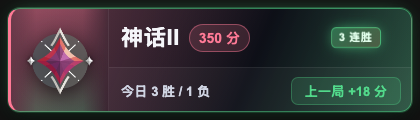
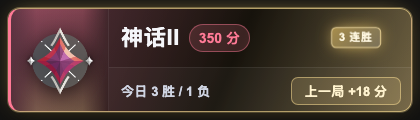
style: use gilded gold wins and red-black losses

diff --git a/src/cmd/valorant-overlay/static/overlay.html b/src/cmd/valorant-overlay/static/overlay.html
@@ -46,6 +46,20 @@
       box-shadow: 0 10px 24px rgba(0,0,0,.50), 0 0 22px -12px rgba(var(--tier-rgb), .85), inset 0 1px 0 rgba(255,255,255,.08);
       color: #f5f6fa;
     }
+    .rank-card[data-result="win"] {
+      border-color: rgba(255,226,150,.55);
+      border-left-color: var(--tier);
+      background:
+        linear-gradient(112deg, rgba(var(--tier-rgb), .32) 0%, rgba(22,18,11,.96) 55%, rgba(255,226,150,.38) 100%),
+        linear-gradient(135deg, #11131c, #1d1810);
+    }
+    .rank-card[data-result="loss"] {
+      border-color: rgba(190,30,45,.48);
+      border-left-color: var(--tier);
+      background:
+        linear-gradient(112deg, rgba(var(--tier-rgb), .20) 0%, rgba(6,5,8,.98) 48%, rgba(150,16,30,.42) 100%),
+        linear-gradient(135deg, #08070a, #150508);
+    }
     .rank-badge {
       grid-row: 1 / 3;
       position: relative;
@@ -137,38 +151,38 @@
       animation: streakPulse var(--breath-duration, 2.4s) ease-in-out infinite;
     }
     .streak-badge.win {
-      color: #e2ffec;
-      background: linear-gradient(135deg, rgba(82,217,139,.42), rgba(255,224,138,.20));
-      border: 1px solid rgba(82,217,139,.62);
-      box-shadow: 0 0 14px -3px rgba(82,217,139,.8);
+      color: #fff8e1;
+      background: linear-gradient(135deg, rgba(255,214,110,.55), rgba(255,248,220,.22));
+      border: 1px solid rgba(255,232,170,.85);
+      box-shadow: 0 0 16px -3px rgba(255,214,110,.9);
     }
     .streak-badge.loss {
-      color: #ffe4e7;
-      background: linear-gradient(135deg, rgba(255,95,109,.46), rgba(255,150,120,.18));
-      border: 1px solid rgba(255,95,109,.65);
-      box-shadow: 0 0 14px -3px rgba(255,95,109,.8);
+      color: #ffb3ba;
+      background: linear-gradient(135deg, #120507, rgba(120,10,20,.72));
+      border: 1px solid rgba(220,45,60,.78);
+      box-shadow: 0 0 16px -3px rgba(220,45,60,.75);
     }
     @keyframes streakPulse {
       0%, 100% { transform: scale(1); filter: brightness(1); }
       50% { transform: scale(1.06); filter: brightness(1.22); }
     }
     .rank-card[data-streak="win"] {
-      border-color: rgba(82,217,139,.55);
+      border-color: rgba(255,226,150,.65);
       border-left-color: var(--tier);
       animation: streakWin var(--breath-duration, 2.4s) ease-in-out infinite;
     }
     .rank-card[data-streak="loss"] {
-      border-color: rgba(255,95,109,.55);
+      border-color: rgba(200,35,50,.65);
       border-left-color: var(--tier);
       animation: streakLoss var(--breath-duration, 2.4s) ease-in-out infinite;
     }
     @keyframes streakWin {
-      0%, 100% { box-shadow: 0 10px 24px rgba(0,0,0,.50), 0 0 0 1px rgba(82,217,139,.30), 0 0 22px -10px rgba(82,217,139,.8); filter: brightness(1); }
-      50% { box-shadow: 0 10px 24px rgba(0,0,0,.50), 0 0 0 2px rgba(82,217,139,.55), 0 0 34px -6px rgba(82,217,139,1); filter: brightness(1.08); }
+      0%, 100% { box-shadow: 0 10px 24px rgba(0,0,0,.50), 0 0 0 1px rgba(255,226,150,.35), 0 0 24px -10px rgba(255,214,110,.9); filter: brightness(1); }
+      50% { box-shadow: 0 10px 24px rgba(0,0,0,.50), 0 0 0 2px rgba(255,236,180,.65), 0 0 38px -6px rgba(255,214,110,1); filter: brightness(1.08); }
     }
     @keyframes streakLoss {
-      0%, 100% { box-shadow: 0 10px 24px rgba(0,0,0,.50), 0 0 0 1px rgba(255,95,109,.30), 0 0 22px -10px rgba(255,95,109,.8); filter: brightness(1); }
-      50% { box-shadow: 0 10px 24px rgba(0,0,0,.50), 0 0 0 2px rgba(255,95,109,.55), 0 0 34px -6px rgba(255,95,109,1); filter: brightness(1.08); }
+      0%, 100% { box-shadow: 0 10px 24px rgba(0,0,0,.50), 0 0 0 1px rgba(190,30,45,.40), 0 0 26px -10px rgba(190,30,45,.9); filter: brightness(1); }
+      50% { box-shadow: 0 10px 24px rgba(0,0,0,.50), 0 0 0 2px rgba(220,45,60,.65), 0 0 40px -8px rgba(190,30,45,1); filter: brightness(1.08); }
     }
     .rank-sub {
       min-width: 0;
@@ -200,6 +214,16 @@
       background: rgba(var(--result-rgb), .14);
       border: 1px solid rgba(var(--result-rgb), .30);
     }
+    .rank-card[data-result="win"] #last-change {
+      color: #fff3cf;
+      background: rgba(255,226,150,.16);
+      border-color: rgba(255,226,150,.50);
+    }
+    .rank-card[data-result="loss"] #last-change {
+      color: #ff9aa3;
+      background: rgba(120,10,18,.28);
+      border-color: rgba(200,40,55,.55);
+    }
     .partial::after { content: "+"; opacity: .8; }
     .rank-card[data-tier="iron"] { --tier-rgb: 154, 163, 178; }
     .rank-card[data-tier="bronze"] { --tier-rgb: 201, 139, 94; }
@@ -211,8 +235,8 @@
     .rank-card[data-tier="immortal"] { --tier-rgb: 255, 122, 150; }
     .rank-card[data-tier="radiant"] { --tier-rgb: 255, 224, 138; }
     .rank-card[data-tier="unranked"] { --tier-rgb: 139, 147, 167; }
-    .rank-card[data-result="win"] { --result-rgb: 82, 217, 139; }
-    .rank-card[data-result="loss"] { --result-rgb: 255, 95, 109; }
+    .rank-card[data-result="win"] { --result-rgb: 255, 226, 150; }
+    .rank-card[data-result="loss"] { --result-rgb: 190, 30, 45; }
     .rank-card[data-result="draw"] { --result-rgb: 231, 197, 106; }
     .rank-card[data-result="unknown"] { --result-rgb: 139, 147, 167; }
   </style>

diff --git a/README.md b/README.md
@@ -27,15 +27,15 @@
 ## 效果预览
 
 <p align="center">
-  <img src="docs/images/overlay-immortal-win.png" width="420" alt="神话II 3 连胜：绿色呼吸">
-  <img src="docs/images/overlay-radiant-loss.png" width="420" alt="辐能 5 连败：红色呼吸">
+  <img src="docs/images/overlay-immortal-win.png" width="420" alt="神话II 3 连胜：鎏金呼吸">
+  <img src="docs/images/overlay-radiant-loss.png" width="420" alt="辐能 5 连败：红黑呼吸">
 </p>
 
-<p align="center"><sub>神话II · 3 连胜（绿色呼吸） / 辐能 · 5 连败（红色呼吸）</sub></p>
+<p align="center"><sub>神话II · 3 连胜（鎏金呼吸） / 辐能 · 5 连败（红黑呼吸）</sub></p>
 
 <p align="center">
-  <img src="docs/images/overlay-immortal-loss.png" width="420" alt="神话II 5 连败：红色呼吸">
-  <img src="docs/images/overlay-radiant-win.png" width="420" alt="辐能 3 连胜：绿色呼吸">
+  <img src="docs/images/overlay-immortal-loss.png" width="420" alt="神话II 5 连败：红黑呼吸">
+  <img src="docs/images/overlay-radiant-win.png" width="420" alt="辐能 3 连胜：鎏金呼吸">
 </p>
 
 <p align="center"><sub>神话II · 5 连败 / 辐能 · 3 连胜</sub></p>
@@ -47,7 +47,7 @@
 <p align="center"><sub>本机状态页：辐能 · 500 分 · 3 连胜 · 今日 3 胜 / 1 负</sub></p>
 
 <blockquote>
-<p><b>UI 细节</b>：段位主色会跟着段位变化（神话为粉红、辐能为金色），再叠加上一局胜负色；连胜/连败徽章和整卡呼吸同频，达到 2 场才触发。</p>
+<p><b>UI 细节</b>：段位主色会跟着段位变化（神话为粉红、辐能为金色），再叠加上一局胜负色（连胜鎏金、连败红黑）；连胜/连败徽章和整卡呼吸同频，达到 2 场才触发。</p>
 </blockquote>
 
 ## 特性
@@ -55,7 +55,7 @@
 | | |
 |:--|:--|
 | 🎯 **游戏内段位图标** | 直接使用掌瓦段位卡片返回的图标，不用文字冒充段位 |
-| 🎨 **段位/胜负动态背景** | 段位主色 + 上一局胜负渐变；失败偏红、胜利偏绿 |
+| 🎨 **段位/胜负动态背景** | 段位主色 + 上一局胜负渐变；连胜鎏金、连败红黑 |
 | 🔥 **连胜/连败呼吸动画** | 2 场起显示徽章；卡片与徽章同频呼吸，无扫光 |
 | 🖥 **Windows / macOS** | Windows 10/11 x64；macOS 12+ Apple Silicon / Intel |
 | 🔐 **本机加密登录** | Windows DPAPI；macOS Keychain + AES-GCM |
